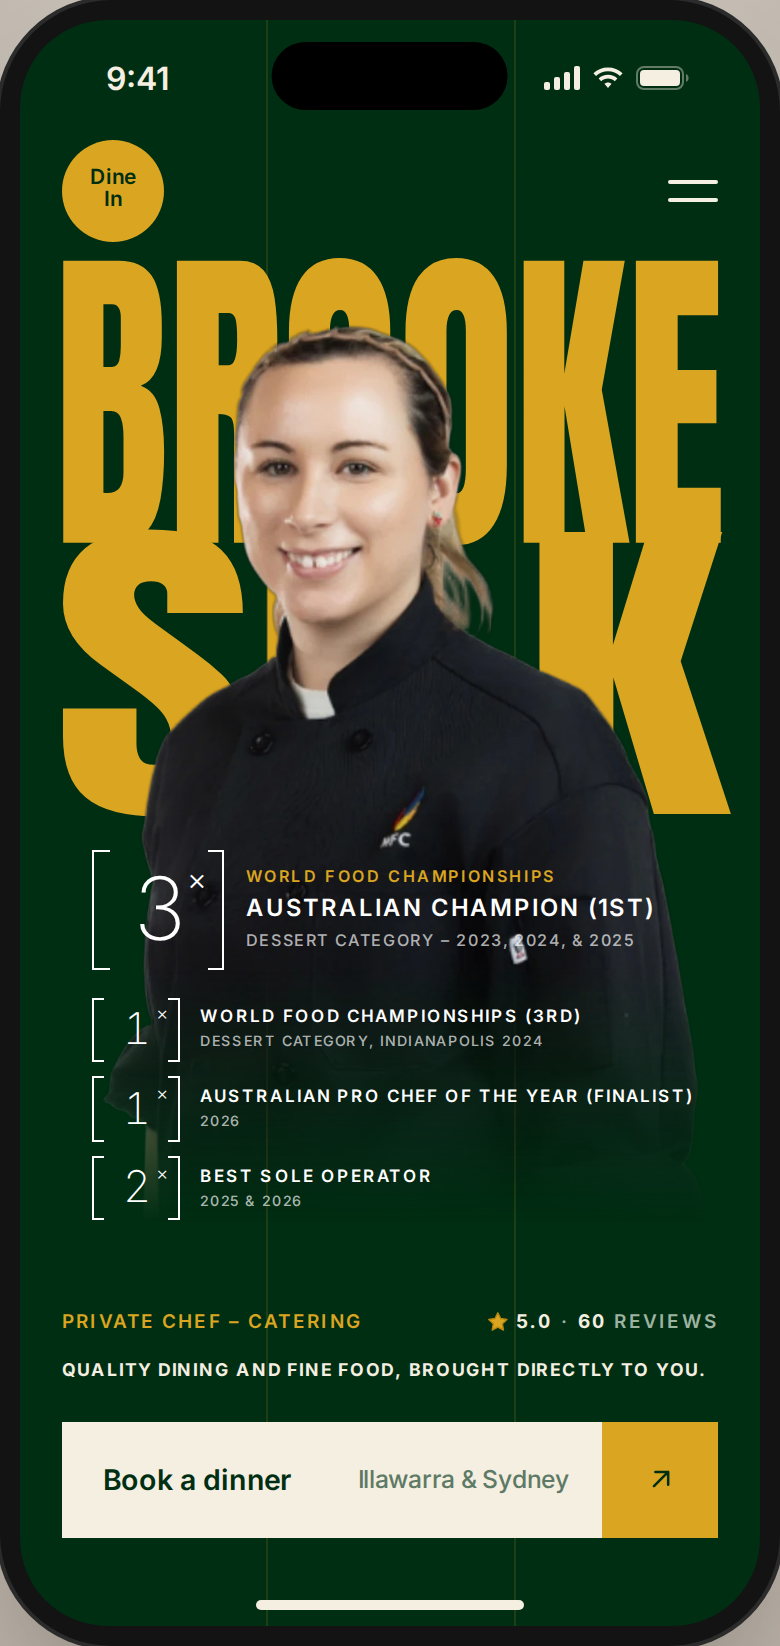
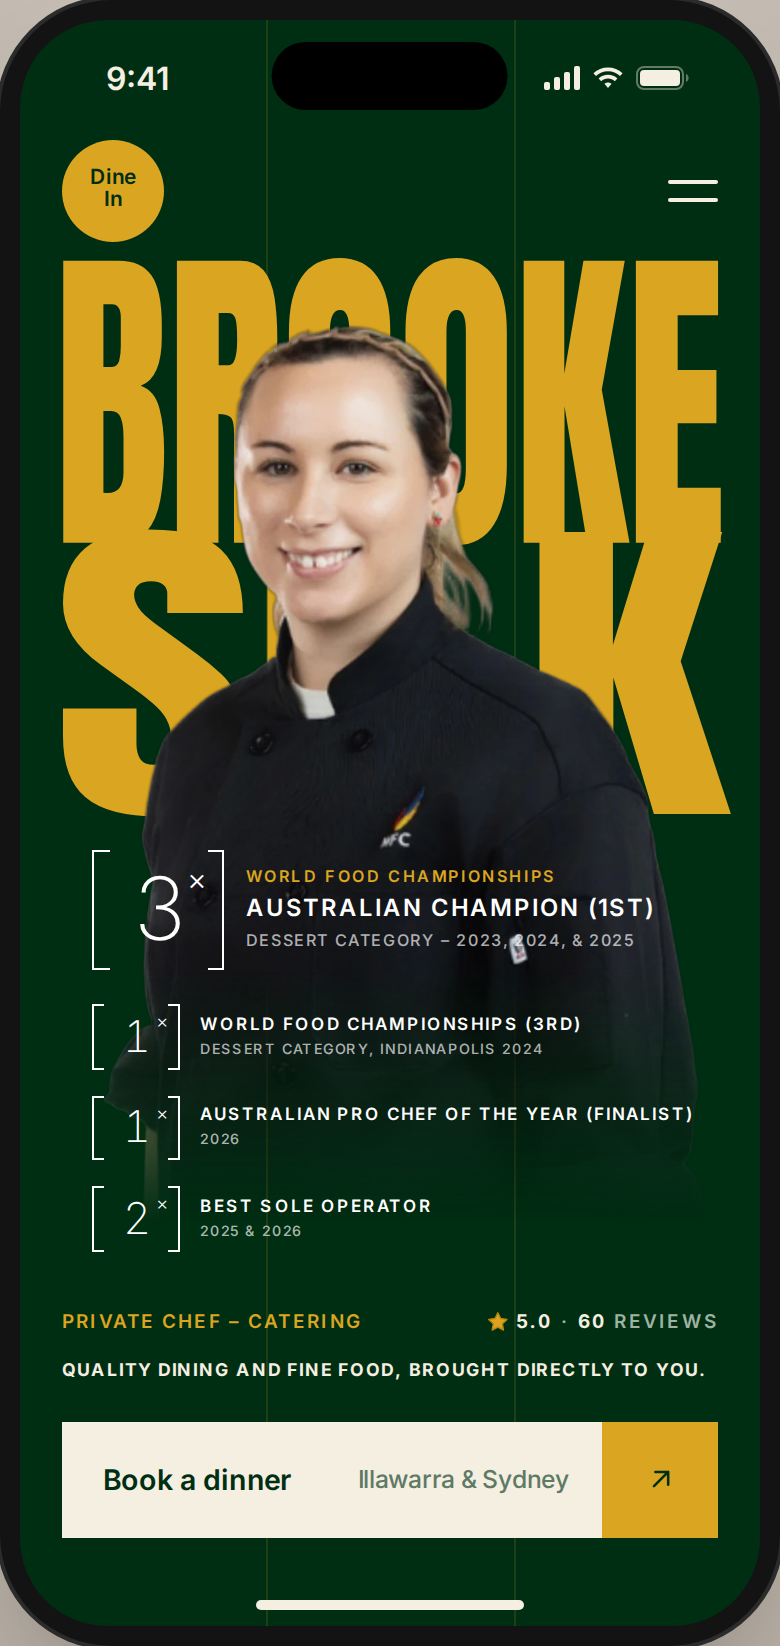
Chef card: more space between the smaller awards
The gap between awards goes from 8 to 14 design units, so the three
smaller entries under the lead read as separate items. The lead's extra
margin drops from 6 to 4 to keep its spacing about the same.

Claude-Session: https://claude.ai/code/session_01Dn2sZdZCxPbGjUxXXUAMP8

Changed region(s): [[0.2462, 0.5887, 0.8923, 0.7746], [0.1538, 0.6197, 0.2154, 0.7436]]

diff --git a/components/chef-card/style.css b/components/chef-card/style.css
@@ -188,7 +188,7 @@
   right: calc(22 * var(--u));     /* long titles wrap rather than run off the card */
   z-index: 3;
   display: grid;
-  gap: calc(8 * var(--u));
+  gap: calc(14 * var(--u));
   margin: 0;
   padding: 0;
   list-style: none;
@@ -219,7 +219,7 @@
   --arm: 8;
   --title-size: 12.5;
   --sub-size: 8.5;
-  margin-bottom: calc(6 * var(--u));
+  margin-bottom: calc(4 * var(--u));
 }
 
 .ui-chef__stat-num {
